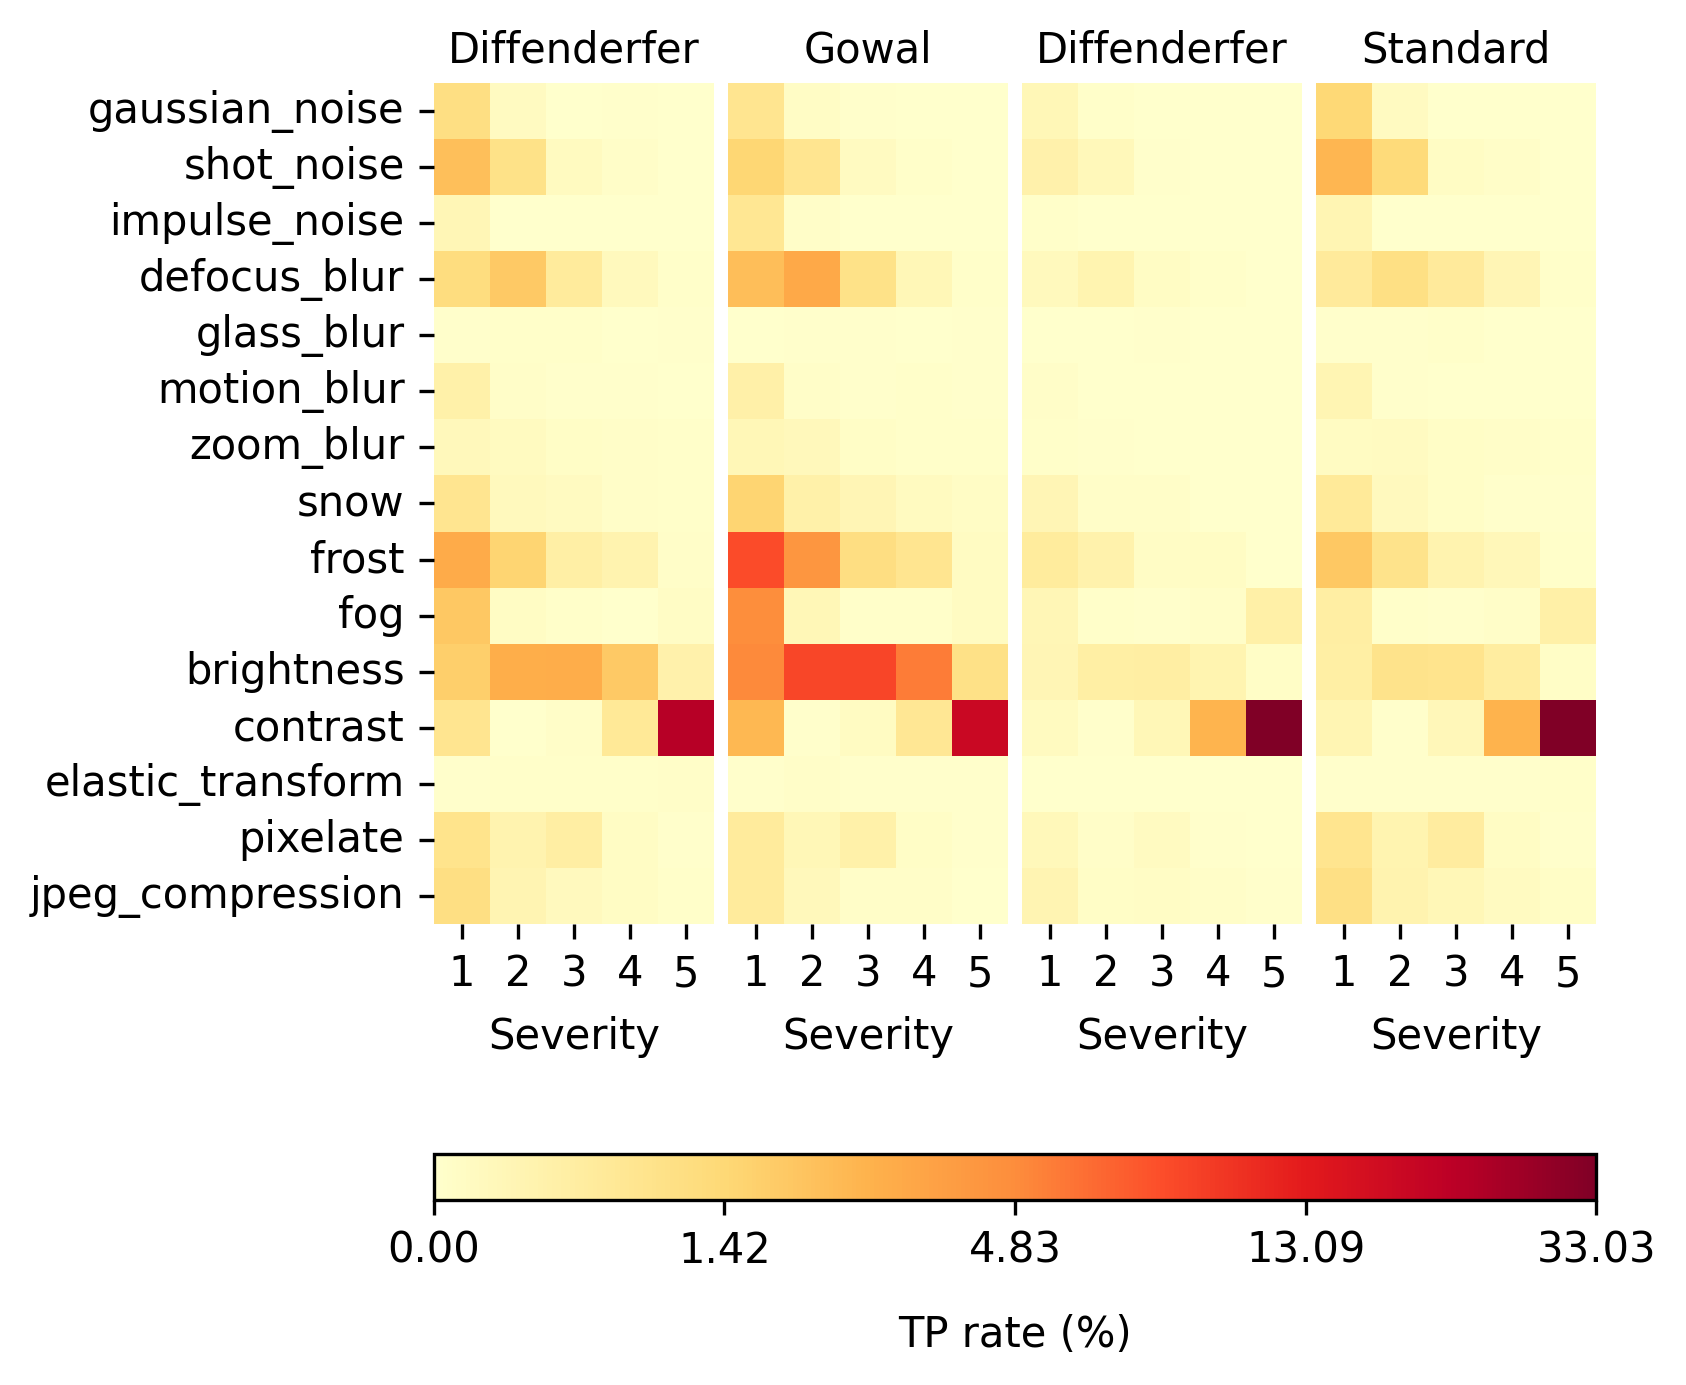
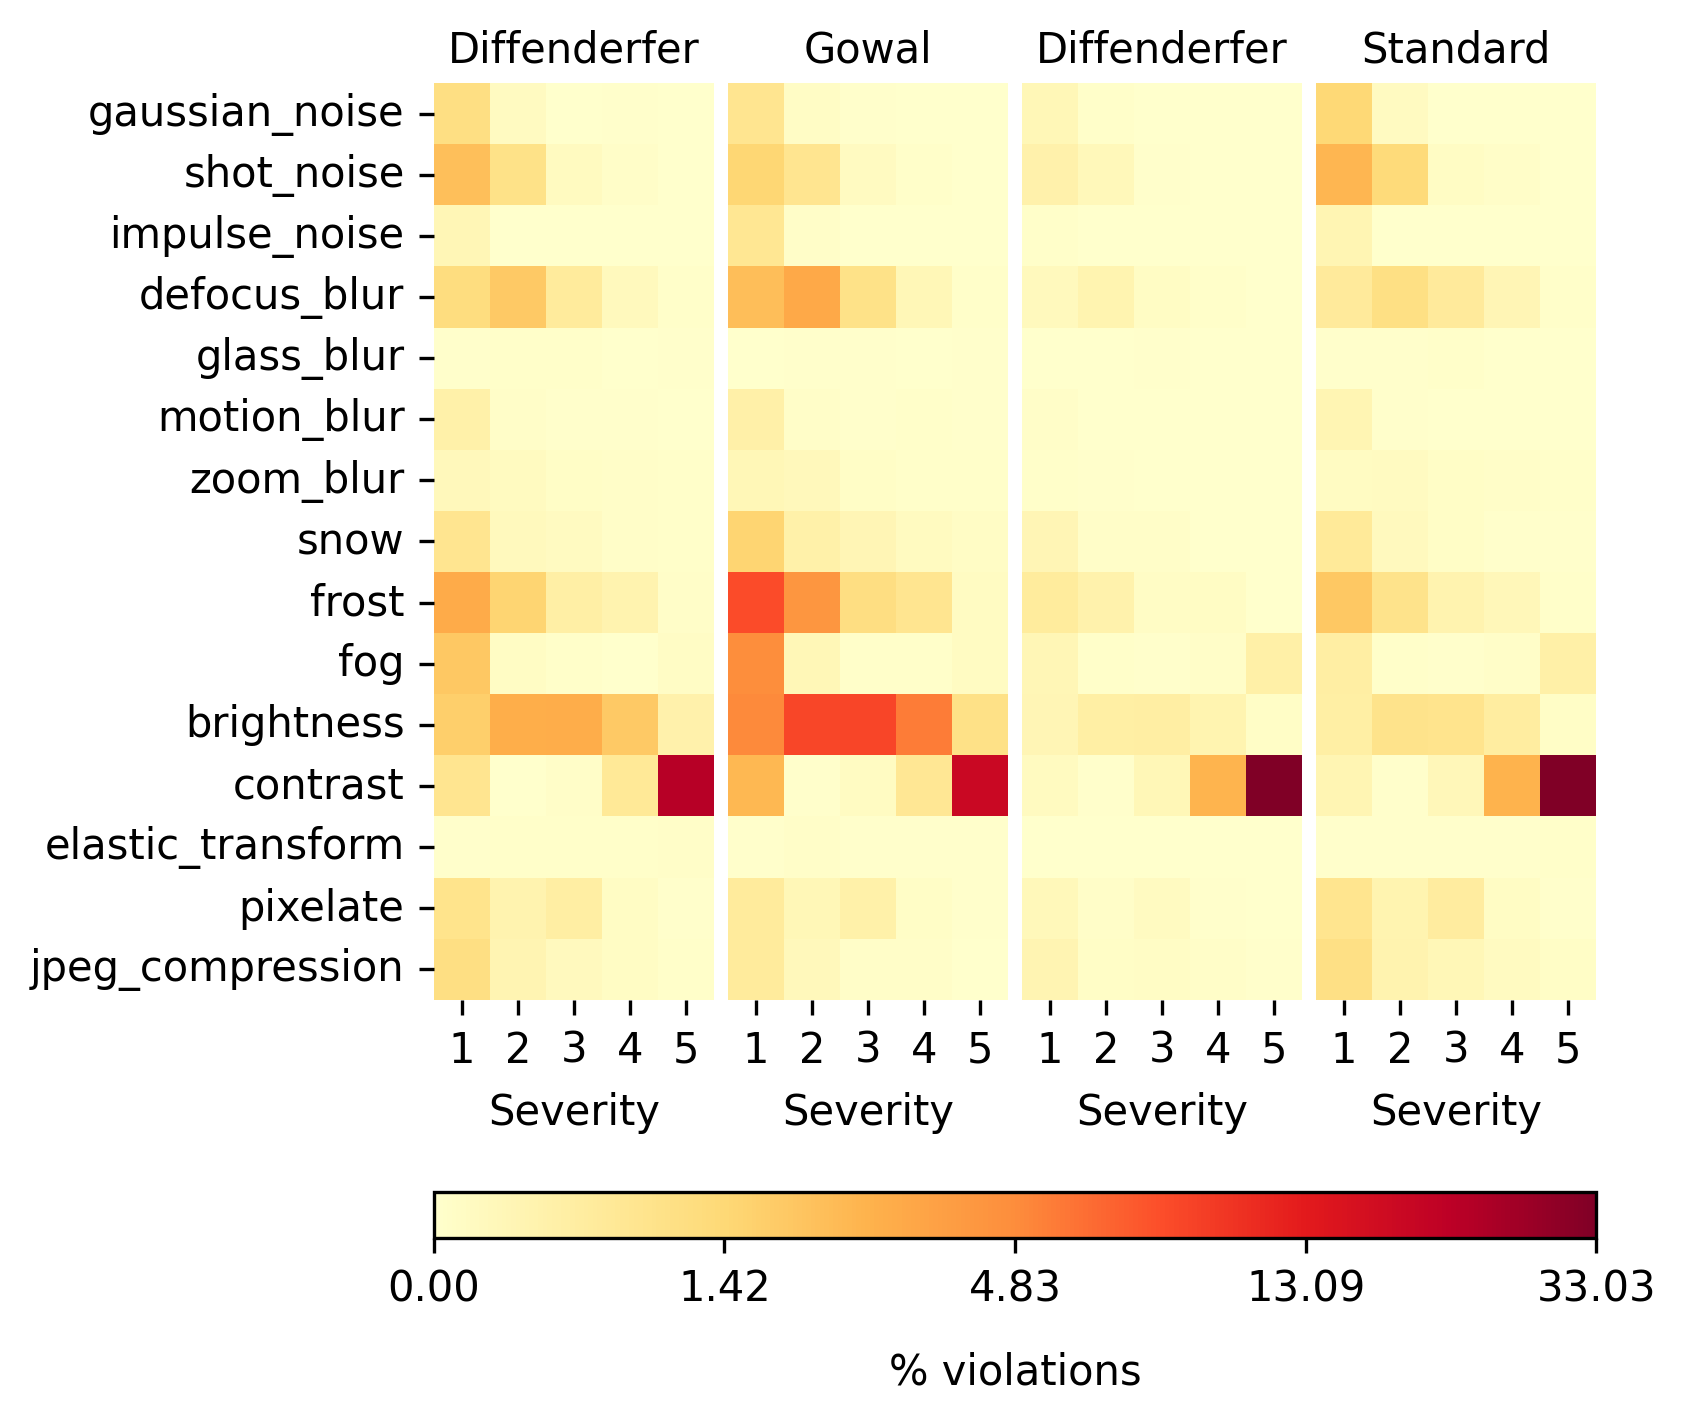
change y axis label on heatmaps

diff --git a/results/semantic/plot.py b/results/semantic/plot.py
@@ -167,7 +167,7 @@ def process_all_directories(base_dir='results', use_rate=False, outfile="out.png
     cbar.set_ticks(tick_positions)
     cbar.set_ticklabels([f'{x:.2f}' for x in tick_values])
     
-    cbar.set_label('TP rate (%)', labelpad=10)
+    cbar.set_label('% violations', labelpad=10)
 
     
     # Reduce spacing between subplots
